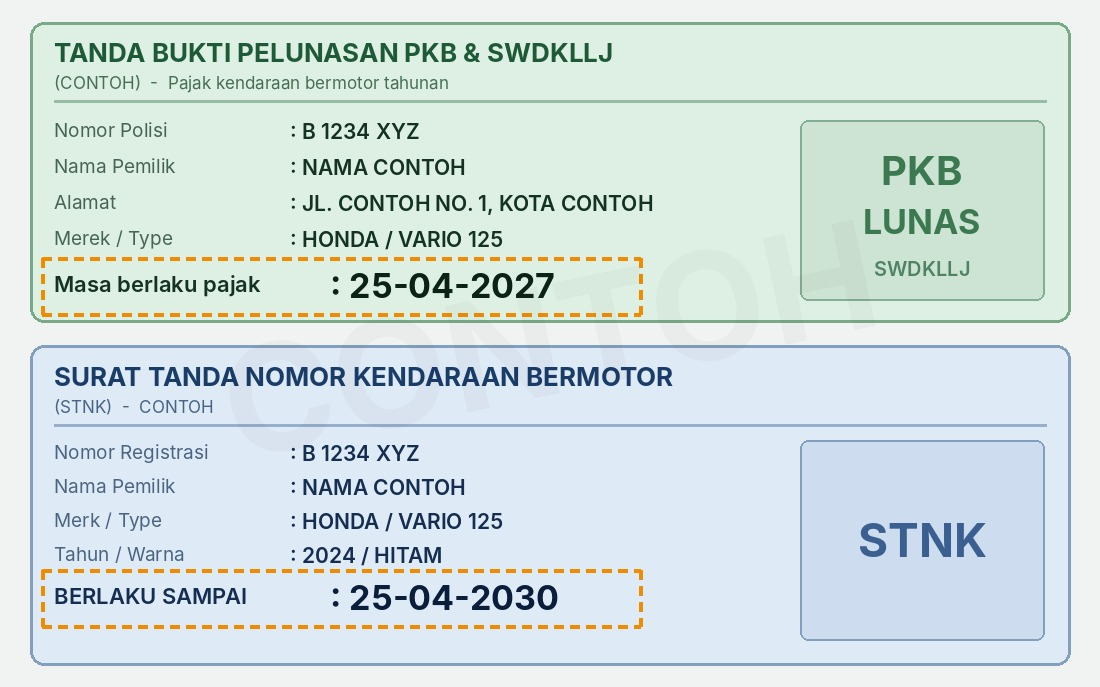
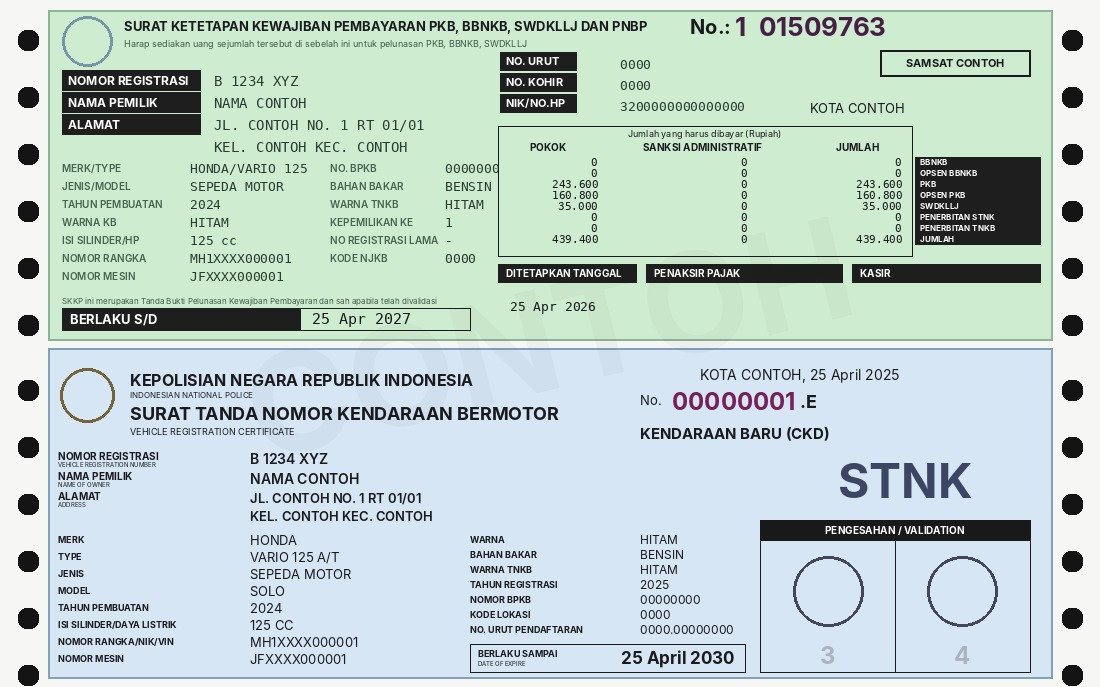
Riding: contoh foto SIM dan STNK memakai tata letak dokumen asli dengan data karangan
Claude-Session: https://claude.ai/code/session_01BMTzFAZ7KYXUWKJFUWWDBV

diff --git a/bst/riding/index.html b/bst/riding/index.html
@@ -396,14 +396,14 @@ stnk:`<svg viewBox="0 0 320 190" role="img" aria-label="Contoh foto STNK bagian 
 motor:`<svg viewBox="0 0 240 150" role="img" aria-label="Contoh foto motor dari depan menyamping"><rect width="240" height="150" fill="#eef5f3"/><rect y="124" width="240" height="26" fill="#dfe9e6"/><g fill="none" stroke="#12312b" stroke-width="5"><circle cx="58" cy="108" r="20"/><circle cx="178" cy="108" r="20"/></g><g fill="#12312b"><circle cx="58" cy="108" r="5"/><circle cx="178" cy="108" r="5"/></g><path d="M58 108L92 72h40l46 36" fill="none" stroke="#12312b" stroke-width="5" stroke-linejoin="round"/><path d="M88 74q22-22 52-10l16 20-66 4z" fill="#0b6b5b"/><rect x="66" y="66" width="44" height="9" rx="4.5" fill="#12312b"/><path d="M152 64l8-20 14-3M162 50l16 58" fill="none" stroke="#12312b" stroke-width="4" stroke-linecap="round"/><circle cx="164" cy="58" r="6" fill="#f2c94c" stroke="#12312b" stroke-width="1.5"/><path d="M176 92h12" stroke="#12312b" stroke-width="4" stroke-linecap="round"/><rect x="188" y="76" width="42" height="17" rx="2" fill="#fff" stroke="#12312b" stroke-width="1.5"/><text x="209" y="88" text-anchor="middle" font-size="6.2" font-weight="700" fill="#12312b" font-family="Arial">B 1234 XYZ</text><rect x="184" y="72" width="50" height="25" rx="4" fill="none" stroke="#f08c00" stroke-width="1.8" stroke-dasharray="4 3"/><text x="209" y="66" text-anchor="middle" font-size="7" font-weight="700" fill="#f08c00" font-family="Arial">plat terbaca</text></svg>`,
 mobil:`<svg viewBox="0 0 240 150" role="img" aria-label="Contoh foto mobil dari depan menyamping"><rect width="240" height="150" fill="#eef5f3"/><rect y="124" width="240" height="26" fill="#dfe9e6"/><path d="M26 104l4-20q2-8 14-10l30-4 20-22q6-6 28-6 28 0 40 22l28 6q14 4 14 18v14q0 4-4 4H30q-4 0-4-2z" fill="#0b6b5b"/><path d="M84 70l18-18h30v18zM138 52q20 0 30 18h-30z" fill="#d7ecf5"/><g fill="#12312b"><circle cx="68" cy="112" r="17"/><circle cx="184" cy="112" r="17"/></g><g fill="#cfd8d6"><circle cx="68" cy="112" r="7"/><circle cx="184" cy="112" r="7"/></g><rect x="214" y="76" width="8" height="7" rx="2" fill="#f2c94c" stroke="#12312b" stroke-width="1"/><rect x="196" y="88" width="40" height="16" rx="2" fill="#fff" stroke="#12312b" stroke-width="1.5"/><text x="216" y="99" text-anchor="middle" font-size="6" font-weight="700" fill="#12312b" font-family="Arial">B 1234 XYZ</text><rect x="192" y="84" width="48" height="24" rx="4" fill="none" stroke="#f08c00" stroke-width="1.8" stroke-dasharray="4 3"/><text x="216" y="120" text-anchor="middle" font-size="7" font-weight="700" fill="#f08c00" font-family="Arial">plat terbaca</text></svg>`,
 stnkOne:`<svg viewBox="0 0 320 190" role="img" aria-label="Contoh salah: hanya satu bagian STNK yang difoto"><rect width="320" height="190" fill="#f3f3f3"/><rect x="40" y="20" width="240" height="70" rx="4" fill="#fff" stroke="#c9d3ce"/><rect x="52" y="34" width="120" height="6" fill="#c9d3ce"/><rect x="52" y="48" width="170" height="6" fill="#dfe6e2"/><rect x="52" y="62" width="90" height="6" fill="#dfe6e2"/><text x="160" y="84" text-anchor="middle" font-size="11" font-weight="700" fill="#c0392b" font-family="Arial">Pajak</text><rect x="40" y="104" width="240" height="70" rx="4" fill="#e9eeec" stroke="#c9d3ce" stroke-dasharray="5 4"/><text x="160" y="143" text-anchor="middle" font-size="12" font-weight="700" fill="#c0392b" font-family="Arial">STNK tidak ikut difoto</text></svg>`,
-stnkBad:`<img src="assets/contoh-salah-stnk.jpg?v=2" alt="Contoh salah: hasil scan satu halaman penuh, hanya STNK tanpa Pajak" loading="lazy" style="width:100%;max-height:260px;object-fit:contain;border-radius:10px;background:#f3f3f3;display:block">`,
+stnkBad:`<img src="assets/contoh-salah-stnk.jpg?v=3" alt="Contoh salah: hasil scan satu halaman penuh, hanya STNK tanpa Pajak" loading="lazy" style="width:100%;max-height:260px;object-fit:contain;border-radius:10px;background:#f3f3f3;display:block">`,
 unitBadScreen:`<svg viewBox="0 0 240 150" role="img" aria-label="Contoh salah: memotret layar HP atau selfie"><rect width="240" height="150" fill="#e9e9e9"/><circle cx="168" cy="54" r="20" fill="#c9a58a"/><path d="M128 150q4-48 40-48t40 48z" fill="#5b6f69"/><rect x="40" y="22" width="78" height="128" rx="10" fill="#222"/><rect x="46" y="30" width="66" height="112" rx="5" fill="#fff"/><g fill="none" stroke="#12312b" stroke-width="3"><circle cx="58" cy="108" r="9"/><circle cx="100" cy="108" r="9"/></g><path d="M58 108l16-28h14l12 28M70 80l-6-4" stroke="#12312b" stroke-width="3" fill="none"/><circle cx="216" cy="20" r="11" fill="#d92d20"/><path d="M211.5 15.5l9 9M220.5 15.5l-9 9" stroke="#fff" stroke-width="2.4" stroke-linecap="round"/></svg>`,
 unitBadCrop:`<svg viewBox="0 0 240 150" role="img" aria-label="Contoh salah: kendaraan terpotong dan plat tidak terlihat"><rect width="240" height="150" fill="#eef5f3"/><rect y="124" width="240" height="26" fill="#dfe9e6"/><path d="M-20 104l10-34q4-10 24-12l50-4 30-28" fill="#0b6b5b"/><g fill="#12312b"><circle cx="30" cy="112" r="24"/></g><circle cx="30" cy="112" r="10" fill="#cfd8d6"/><path d="M60 80q40-6 60 14" stroke="#0b6b5b" stroke-width="10" fill="none"/><circle cx="216" cy="20" r="11" fill="#d92d20"/><path d="M211.5 15.5l9 9M220.5 15.5l-9 9" stroke="#fff" stroke-width="2.4" stroke-linecap="round"/><text x="170" y="100" text-anchor="middle" font-size="8" font-weight="700" fill="#b42318" font-family="Arial">plat tidak terlihat</text></svg>`};
 function photoGuide(kind,open=true){
  const li=a=>a.map(x=>`<li>${x}</li>`).join(''),no=a=>a.map(x=>`<li class="no">${x}</li>`).join('');
  const cfg={
-  sim:{t:'Foto SIM: tampak depan',ill:`<div style="grid-column:1/-1"><div><img class="pg-photo pg-wide" src="assets/contoh-sim.jpg?v=2" alt="Contoh foto SIM yang benar: tampak depan, seluruh kartu terlihat" loading="lazy"></div><div class="pg-cap">Contoh foto SIM yang benar</div></div>`,ul:li(['Foto bagian <b>depan</b> SIM, seluruh kartu masuk di foto','Nomor SIM dan masa berlaku terbaca jelas'])+no(['Buram, gelap, atau ada pantulan cahaya yang menutupi tulisan','Hanya sebagian kartu yang terlihat'])},
-  stnk:{t:'Foto STNK + Pajak: kedua bagian wajib ada',ill:`<div style="grid-column:1/-1"><div><img class="pg-photo pg-wide" src="assets/contoh-stnk.jpg?v=2" alt="Contoh foto STNK dan pajak yang benar" loading="lazy"></div><div class="pg-cap">Benar: bagian Pajak (atas) dan STNK (bawah) sama-sama terlihat</div></div>`,ul:li(['<b>Kedua bagian wajib ada dalam foto: (1) STNK dan (2) Pajak (SKPD)</b>. Jangan hanya salah satu','Bagian <b>STNK</b> menampilkan masa berlaku TNKB (5 tahunan); bagian <b>Pajak</b> menampilkan masa berlaku pajak','Tanggal terbaca jelas, kertas rata dan tidak terlipat','Foto/scan rapat ke tepi dokumen, tanpa halaman kosong'])+no(['Hanya STNK saja, atau hanya Pajak saja','Buram atau terpotong, tanggal tidak terlihat','Hasil scan satu halaman penuh dengan ruang kosong'])
+  sim:{t:'Foto SIM: tampak depan',ill:`<div style="grid-column:1/-1"><div><img class="pg-photo pg-wide" src="assets/contoh-sim.jpg?v=3" alt="Contoh foto SIM yang benar: tampak depan, seluruh kartu terlihat" loading="lazy"></div><div class="pg-cap">Contoh foto SIM yang benar</div></div>`,ul:li(['Foto bagian <b>depan</b> SIM, seluruh kartu masuk di foto','Nomor SIM dan masa berlaku terbaca jelas'])+no(['Buram, gelap, atau ada pantulan cahaya yang menutupi tulisan','Hanya sebagian kartu yang terlihat'])},
+  stnk:{t:'Foto STNK + Pajak: kedua bagian wajib ada',ill:`<div style="grid-column:1/-1"><div><img class="pg-photo pg-wide" src="assets/contoh-stnk.jpg?v=3" alt="Contoh foto STNK dan pajak yang benar" loading="lazy"></div><div class="pg-cap">Benar: bagian Pajak (atas) dan STNK (bawah) sama-sama terlihat</div></div>`,ul:li(['<b>Kedua bagian wajib ada dalam foto: (1) STNK dan (2) Pajak (SKPD)</b>. Jangan hanya salah satu','Bagian <b>STNK</b> menampilkan masa berlaku TNKB (5 tahunan); bagian <b>Pajak</b> menampilkan masa berlaku pajak','Tanggal terbaca jelas, kertas rata dan tidak terlipat','Foto/scan rapat ke tepi dokumen, tanpa halaman kosong'])+no(['Hanya STNK saja, atau hanya Pajak saja','Buram atau terpotong, tanggal tidak terlihat','Hasil scan satu halaman penuh dengan ruang kosong'])
   ,bad:[[`<div style="display:grid;grid-template-columns:1fr 1fr;gap:8px"><img src="assets/salah-stnk.jpg" alt="Salah: hanya STNK tanpa pajak" loading="lazy" style="width:100%;height:auto;max-height:240px;object-fit:contain;border-radius:10px;display:block;margin:0 auto"><img src="assets/salah-pajak.jpg" alt="Salah: hanya pajak tanpa STNK" loading="lazy" style="width:100%;height:auto;max-height:240px;object-fit:contain;border-radius:10px;display:block;margin:0 auto"></div>`,'Salah: foto hanya STNK (tanpa Pajak) atau hanya Pajak (tanpa STNK). Harus lengkap dalam satu foto, rapi dan jelas'],[ILLU.stnkBad,'Salah: scan satu halaman penuh, tulisan jadi kecil']]},
   unit:{t:'Foto kendaraan: tampak depan menyamping',ill:`<div><div><img class="pg-photo" src="assets/contoh-motor.jpg" alt="Contoh foto motor yang benar: depan menyamping, plat terlihat" loading="lazy"></div><div class="pg-cap">Contoh foto motor yang benar</div></div><div><div><img class="pg-photo" src="assets/contoh-mobil.jpg" alt="Contoh foto mobil yang benar: depan menyamping, plat terlihat" loading="lazy"></div><div class="pg-cap">Contoh foto mobil yang benar</div></div>`,ul:li(['Ambil dari <b>depan menyamping (serong depan)</b> sehingga <b>plat nomor terbaca</b> dan <b>body samping</b> kendaraan terlihat','Seluruh kendaraan masuk di foto, dari roda depan sampai roda belakang'])+no(['Plat nomor tidak terlihat atau terlalu kecil untuk dibaca','Kendaraan terpotong atau tertutup orang/benda lain','Foto layar HP, gambar dari internet, atau selfie'])
   ,bad:[[`<img src="assets/salah-hp.jpg" alt="Salah: memotret layar HP" loading="lazy" style="width:100%;height:auto;max-height:240px;object-fit:contain;border-radius:10px;display:block;margin:0 auto">`,'Salah: memotret layar HP / selfie'],[`<div style="display:grid;grid-template-columns:1fr 1fr;gap:8px"><img src="assets/salah-motor.jpg" alt="Salah: motor terpotong" loading="lazy" style="width:100%;height:auto;max-height:240px;object-fit:contain;border-radius:10px;display:block;margin:0 auto"><img src="assets/salah-mobil.jpg" alt="Salah: mobil terpotong" loading="lazy" style="width:100%;height:auto;max-height:240px;object-fit:contain;border-radius:10px;display:block;margin:0 auto"></div>`,'Salah: plat tidak terlihat, kendaraan terpotong']]}
